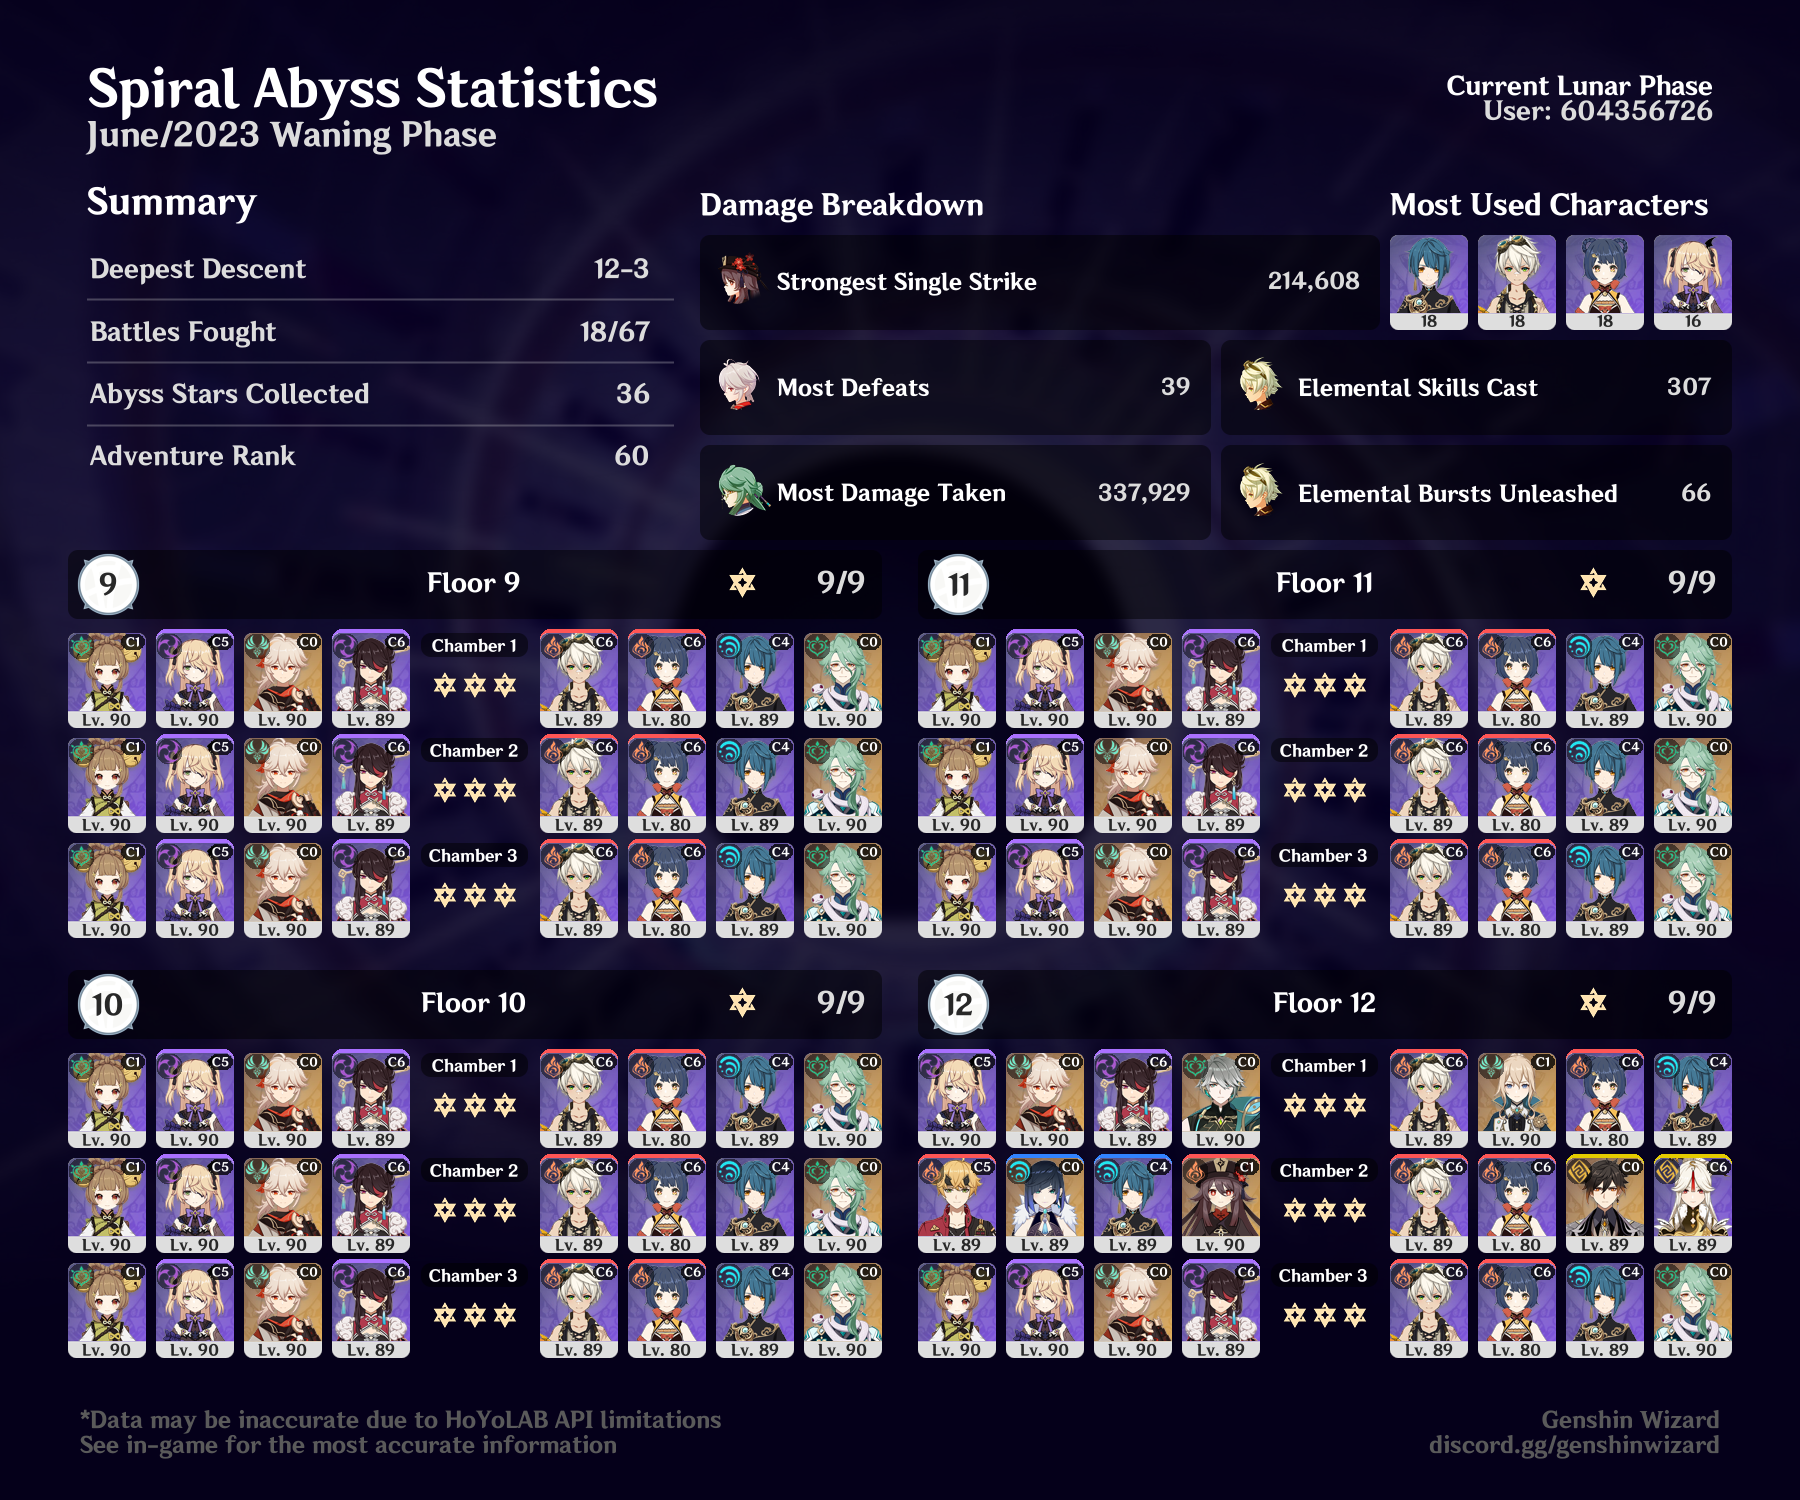
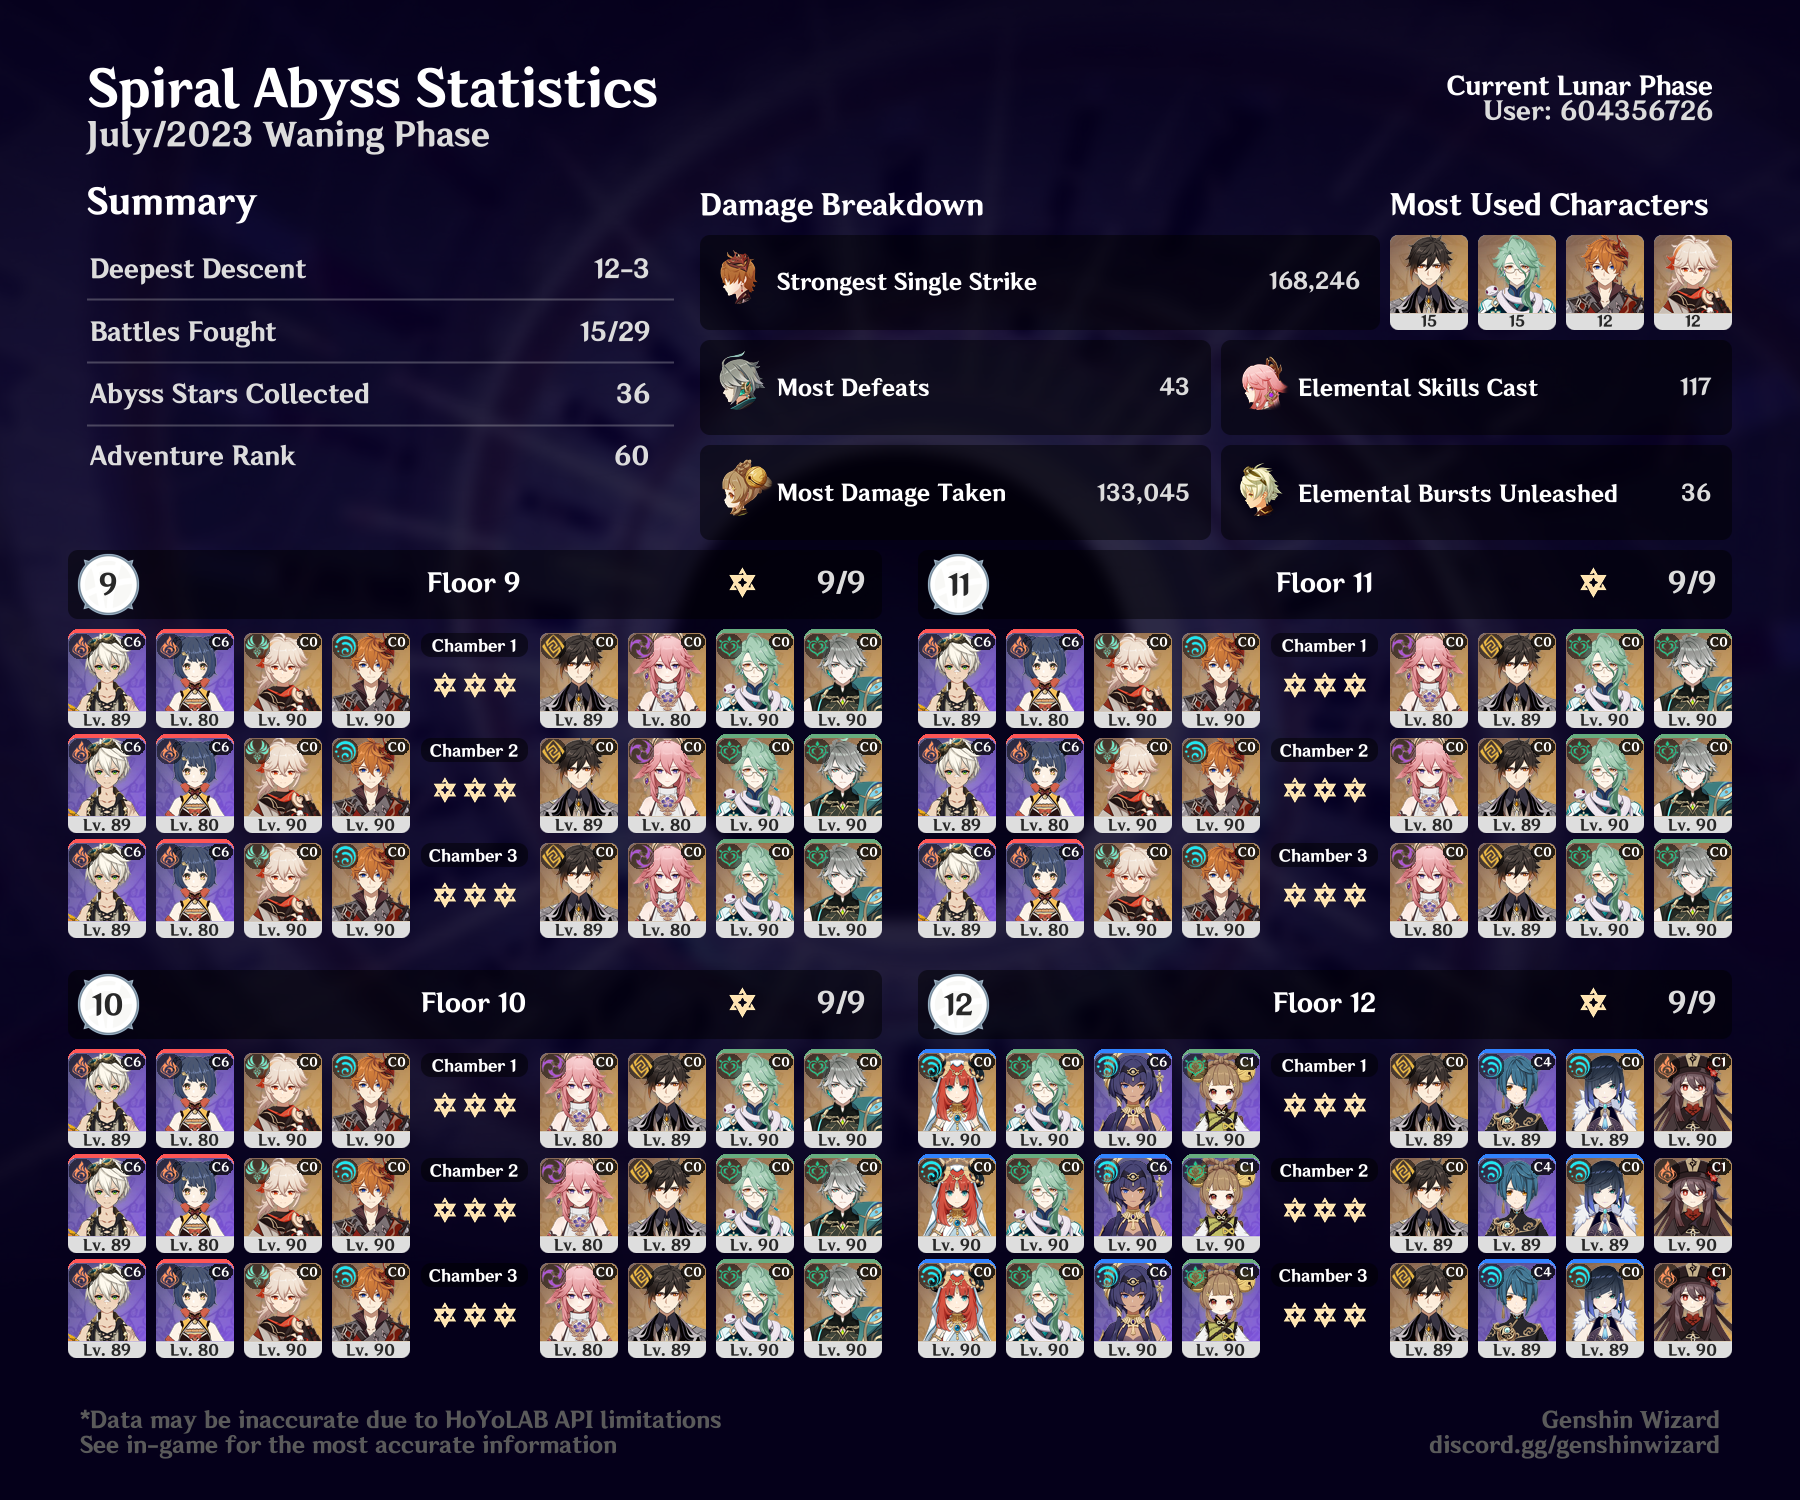
Spiral Abyss 3.8 Cycle 1 Update

diff --git a/spiral-abyss/team_images/07-19-23/index.html b/spiral-abyss/team_images/07-19-23/index.html
@@ -229,32 +229,11 @@ img {
 	
 	</head>
 <body>
-	<iframe class="video" width="100%" src="https://video.hardlimit.com/videos/embed/be4fd58c-9130-4e93-a460-4054216c68f1" frameborder="0" allowfullscreen="" sandbox="allow-same-origin allow-scripts allow-popups"></iframe><h4 align="center">Floor 12</h4>
+	<iframe class="video" width="100%" src="https://video.hardlimit.com/videos/embed/4b5c1f96-c7b2-473c-a81d-392a613b0a69" frameborder="0" allowfullscreen="" sandbox="allow-same-origin allow-scripts allow-popups"></iframe><h4 align="center">Floor 12</h4>
 <p align="center"><a href="https://video.hardlimit.com/c/namestolen/videos">View Archives</a> | <a href="https://elekk.xyz/@campbell">Follow me</a>
-<div class="fade in" align="center" style="font-family: 'VT323', monospace;font-size: 30px;color: rgb(64,64,64);">SPIRAL ABYSS VER. 3.8 CYCLE 1<p style="font-size:14px;color: rgb(64,64,64);">
-<div class="column">
-	<h3 align="center">Team 1</h3>
-	<a class="lightbox" href="#photo-5"><img src="team_images/photo-1.png" width="100%"></a>
-	<a class="lightbox" href="#photo-6"><img src="team_images/photo-2.png" width="100%"></a>
-	<a class="lightbox" href="#photo-7"><img src="team_images/photo-3.png" width="100%"></a>
-	<a class="lightbox" href="#photo-8"><img src="team_images/photo-4.png" width="100%"></a></div>
-	<div class="column">
-	<h3 align="center">Team 2</h3>
-	<a class="lightbox" href="#photo"><img src="team_images/photo-5.png" width="100%"></a>
-	<a class="lightbox" href="#photo-2"><img src="team_images/photo-6.png" width="100%"></a>
-	<a class="lightbox" href="#photo-3"><img src="team_images/photo-7.png" width="100%"></a>
-	<a class="lightbox" href="#photo-4"><img src="team_images/photo-8.png" width="100%"></a></div>
-</div>
+<div class="fade in" align="center" style="font-family: 'VT323', monospace;font-size: 30px;color: rgb(64,64,64);">SPIRAL ABYSS VER. 3.7 CYCLE 2<p style="font-size:14px;color: rgb(64,64,64);">
 <img width="100%" src="team_images/photo-9.png">
-<p><br><br>Comments: <br><br>Back to a solid challenge for abyss. It's not easy, but it's also not hard because of randomness. Nilou bloom is an all-star team for the first half. I don't even have the ideal units plugged in and my Yaoyao driver didn't quite have enough ER and I still was able to muddle my way through and leave enough time for my hyper invested Hu Tao to brute force everything else on the back halves.<br><br><br></p>
-<div class="lightbox-target" id="photo"><img src="team_images/photo-5.png" width="75%"><a class="lightbox-close" href></a></div>
-<div class="lightbox-target" id="photo-2"><img src="team_images/photo-6.png" width="75%"><a class="lightbox-close" href></a></div>
-<div class="lightbox-target" id="photo-3"><img src="team_images/photo-7.png" width="75%"><a class="lightbox-close" href></a></div>
-<div class="lightbox-target" id="photo-4"><img src="team_images/photo-8.png" width="75%"><a class="lightbox-close" href></a></div>
-<div class="lightbox-target" id="photo-5"><img src="team_images/photo-1.png" width="75%"><a class="lightbox-close" href></a></div>
-<div class="lightbox-target" id="photo-6"><img src="team_images/photo-2.png" width="75%"><a class="lightbox-close" href></a></div>
-<div class="lightbox-target" id="photo-7"><img src="team_images/photo-3.png" width="75%"><a class="lightbox-close" href></a></div>
-<div class="lightbox-target" id="photo-8"><img src="team_images/photo-4.png" width="75%"><a class="lightbox-close" href></a></div>
+<p><br><br>Comments: <br><br>God this cycle sucks. It's the first time in a long time I have had to use different teams, and perhaps the only time I have needed to use six unique teams to clear three floors. Certain parts of the encounters are interesting like the baptist on 12-3 and theoretically the shieldbreaking needs for 12-1, but so much of this is also attached to crummy wave spawning and enemies that move around way too much. This results in fights where you basically just have to get lucky with how enemies group themselves. You don't even need to play optimally (as you can see in the 12-3 chamber 1 fight). It doesn't feel good! I'd rather fight the Wenut than do this.<br><br><br></p>
 
 <!-- Footer -->
 			<footer id="footer" style="position:relative;">
